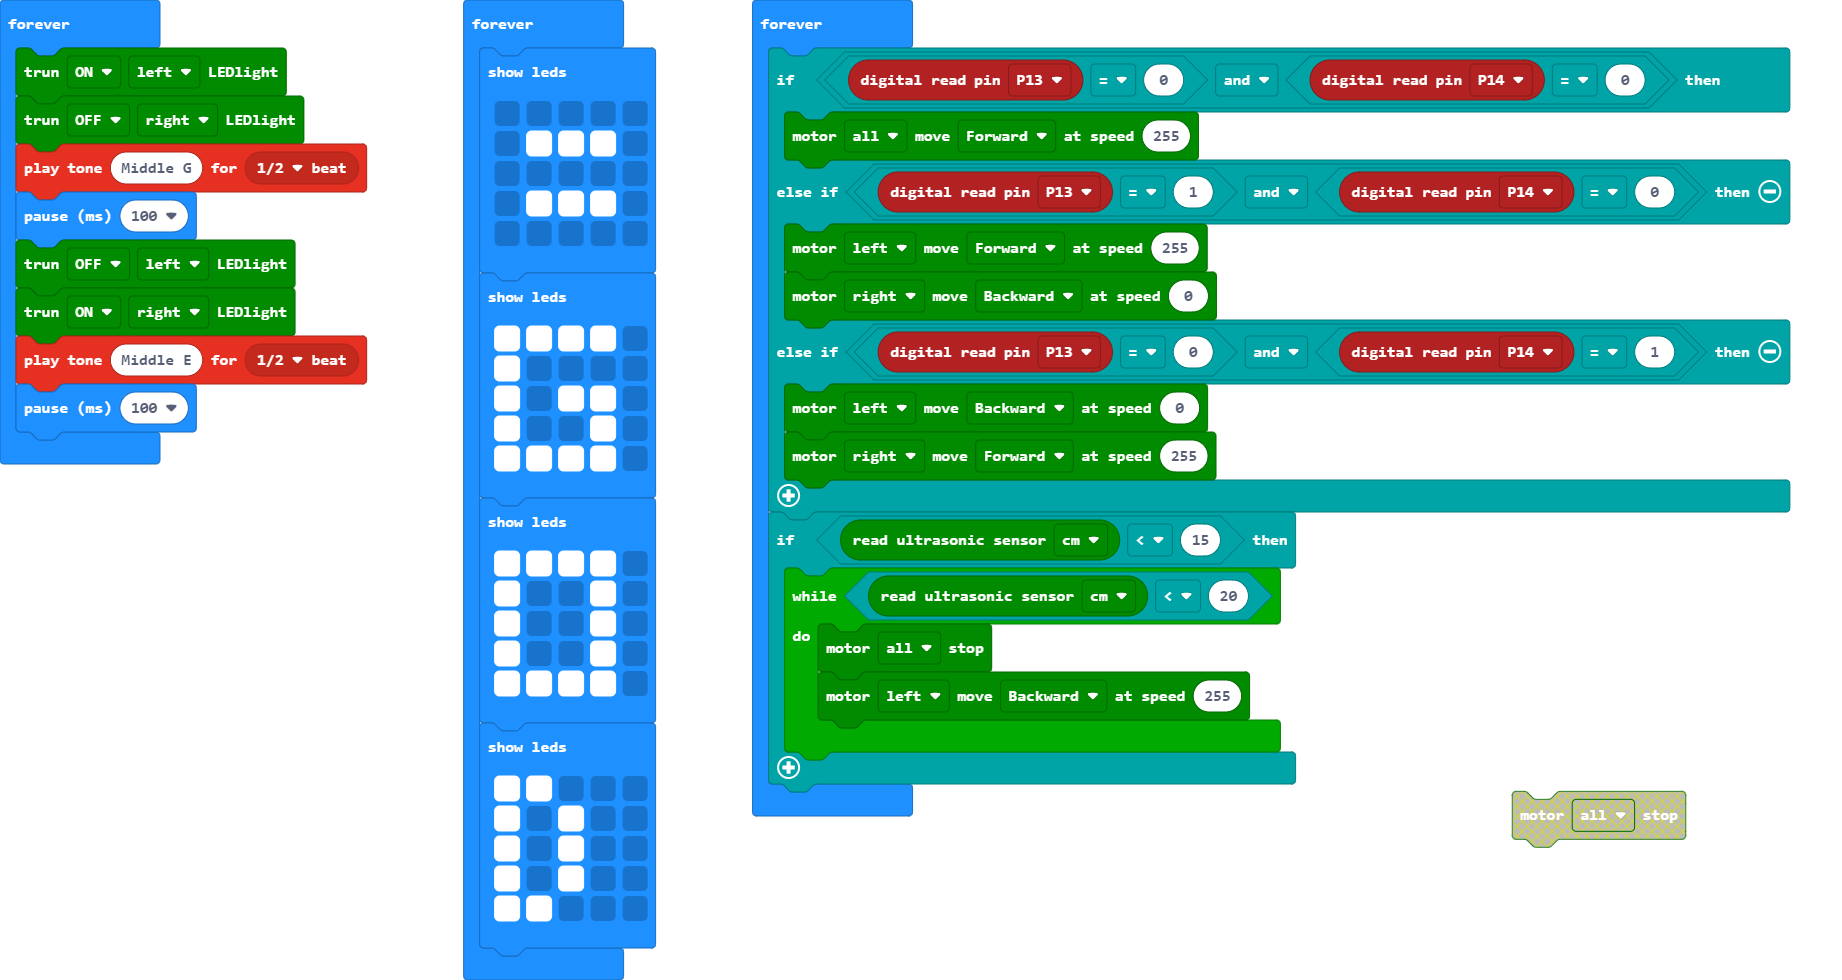
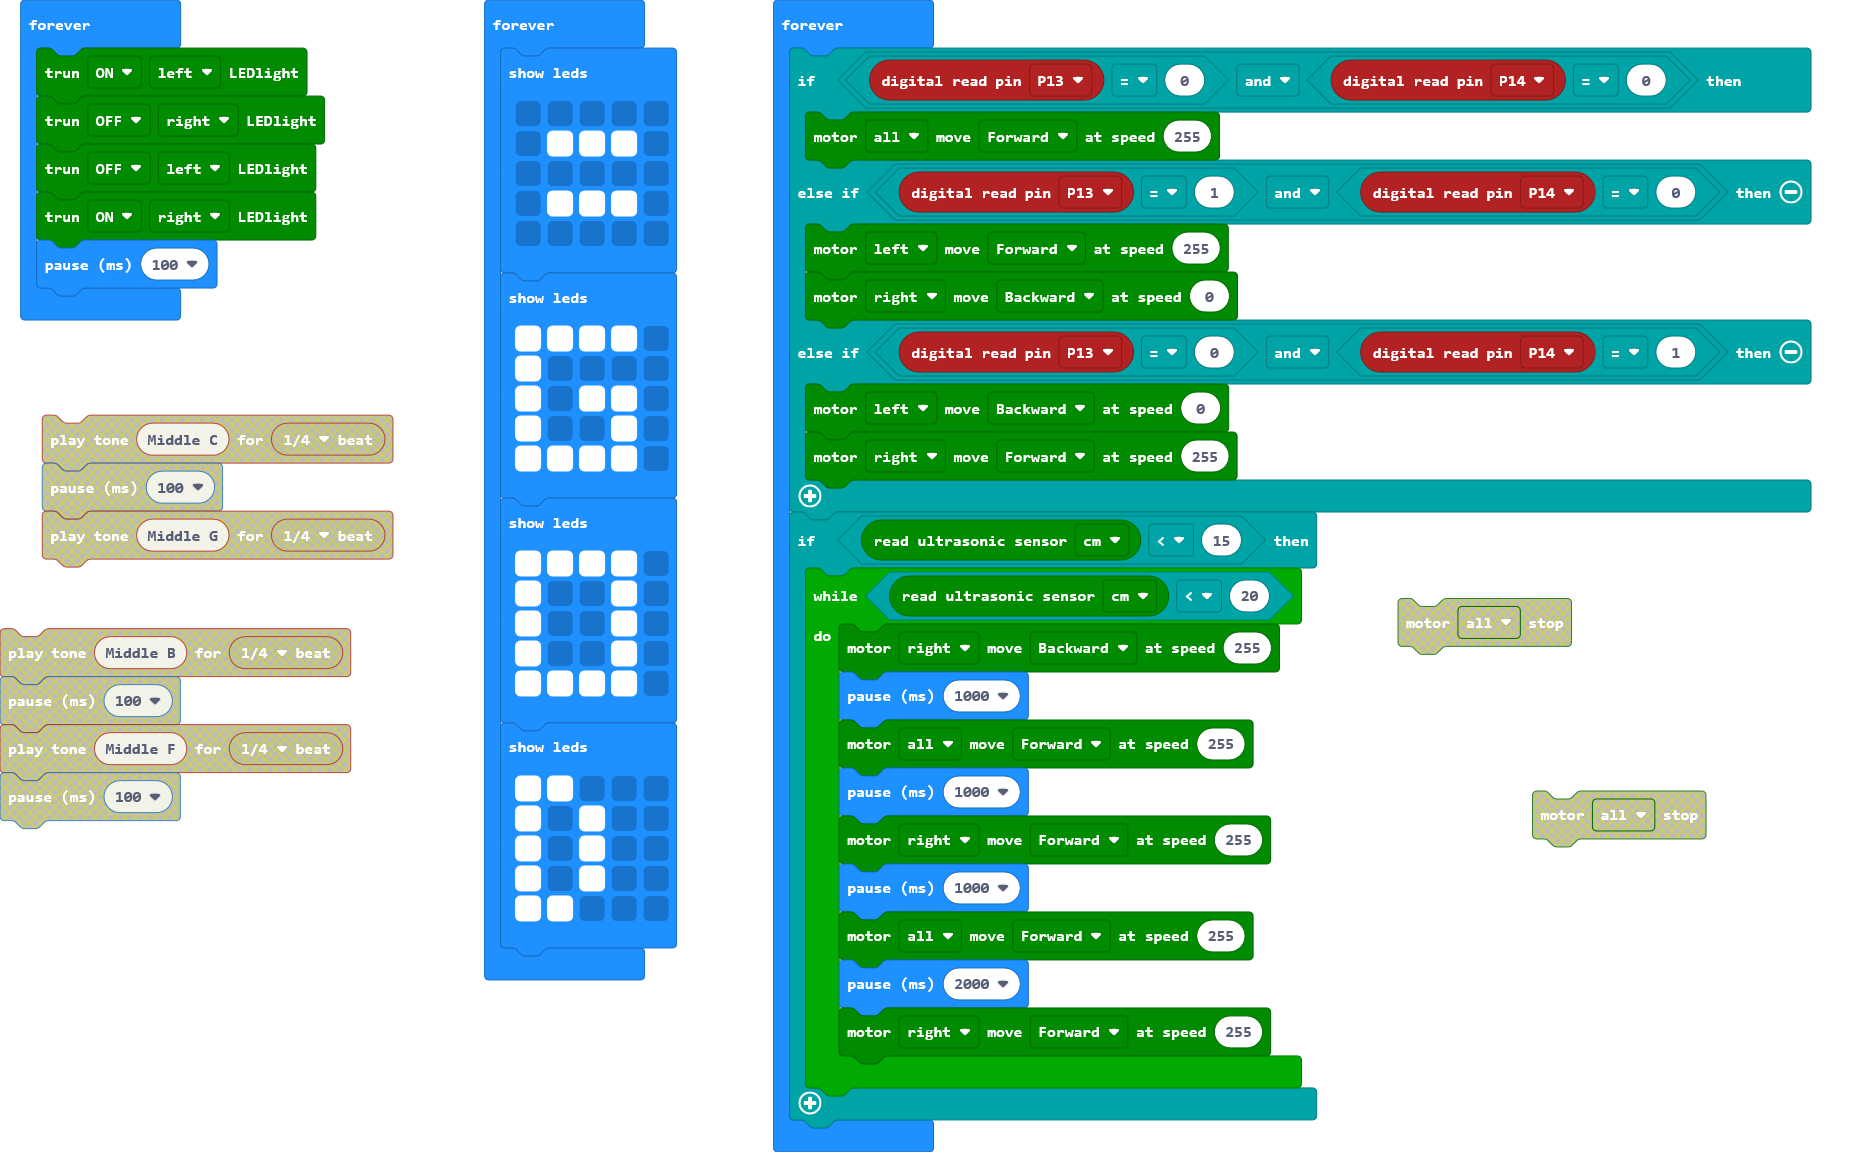
12/46/2020

diff --git a/main.ts b/main.ts
@@ -1,11 +1,8 @@
 basic.forever(function () {
     maqueen.writeLED(maqueen.LEDswitch.turnOn, maqueen.LED.LEDLeft)
     maqueen.writeLED(maqueen.LEDswitch.turnOff, maqueen.LED.LEDRight)
-    music.playTone(392, music.beat(BeatFraction.Half))
-    basic.pause(100)
     maqueen.writeLED(maqueen.LEDswitch.turnOff, maqueen.LED.LEDLeft)
     maqueen.writeLED(maqueen.LEDswitch.turnOn, maqueen.LED.LEDRight)
-    music.playTone(330, music.beat(BeatFraction.Half))
     basic.pause(100)
 })
 basic.forever(function () {
@@ -50,8 +47,15 @@ basic.forever(function () {
     }
     if (maqueen.Ultrasonic(PingUnit.Centimeters) < 15) {
         while (maqueen.Ultrasonic(PingUnit.Centimeters) < 20) {
-            maqueen.motorStop(maqueen.Motors.All)
-            maqueen.motorRun(maqueen.Motors.M1, maqueen.Dir.CCW, 255)
+            maqueen.motorRun(maqueen.Motors.M2, maqueen.Dir.CCW, 255)
+            basic.pause(1000)
+            maqueen.motorRun(maqueen.Motors.All, maqueen.Dir.CW, 255)
+            basic.pause(1000)
+            maqueen.motorRun(maqueen.Motors.M2, maqueen.Dir.CW, 255)
+            basic.pause(1000)
+            maqueen.motorRun(maqueen.Motors.All, maqueen.Dir.CW, 255)
+            basic.pause(2000)
+            maqueen.motorRun(maqueen.Motors.M2, maqueen.Dir.CW, 255)
         }
     }
 })
